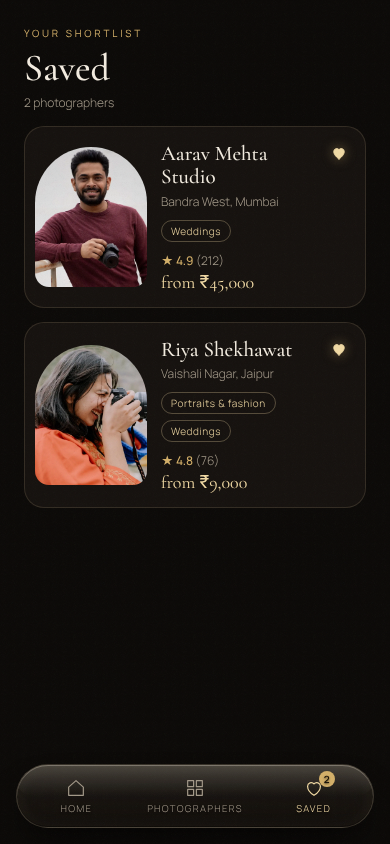
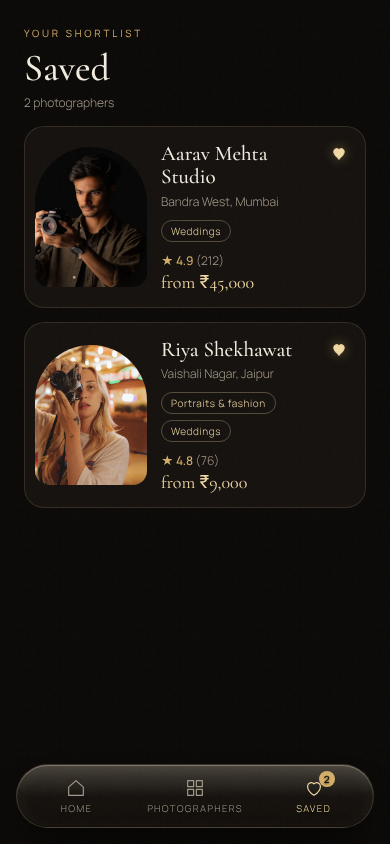
Replace lead portraits with cinematic, low-key and graded studio portraits
Claude-Session: https://claude.ai/code/session_01Rxh5ijzNSCdoqTBqvzDQCr

Changed region(s): [[0.0923, 0.4005, 0.4, 0.5853], [0.0923, 0.154, 0.4, 0.3389]]

diff --git a/src/data/seed/images.ts b/src/data/seed/images.ts
@@ -68,20 +68,20 @@ export const IMAGES: Record<string, ImageMeta> = {
   "18429385": { src: "img/p/18429385.webp", w: 933, h: 1400, box: [0.324, 0.186, 0.766, 0.451], focus: "55% 35%", alt: "Smiling Mother Holding Daughter on Birthday" },
   "36211802": { src: "img/p/36211802.webp", w: 933, h: 1400, box: [0.508, 0.228, 0.743, 0.530], focus: "63% 42%", alt: "Smiling Woman Celebrating Birthday Indoors" },
   "16632447": { src: "img/p/16632447.webp", w: 1100, h: 734, box: [0.138, 0.000, 0.749, 0.757], focus: "44% 39%", alt: "Smiling Indian Bride and Groom in Traditional Costumes" },
-  "lead-pooja-iyer": { src: "img/p/lead-pooja-iyer.webp", w: 720, h: 900, box: [0.361, 0.166, 0.639, 0.489], focus: "50% 36%", alt: "Pooja Iyer, lead photographer with a camera" },
-  "lead-neha-kapoor": { src: "img/p/lead-neha-kapoor.webp", w: 720, h: 899, box: [0.361, 0.119, 0.639, 0.521], focus: "50% 36%", alt: "Neha Kapoor, lead photographer with a camera" },
-  "lead-ira-kapoor": { src: "img/p/lead-ira-kapoor.webp", w: 720, h: 900, box: [0.361, 0.142, 0.639, 0.485], focus: "50% 35%", alt: "Ira Kapoor, lead photographer with a camera" },
+  "lead-kabir-films": { src: "img/p/lead-kabir-films.webp", w: 720, h: 900, box: [0.361, 0.127, 0.639, 0.515], focus: "50% 36%", alt: "Kabir Anand, lead photographer with a camera" },
+  "lead-meher-vikram": { src: "img/p/lead-meher-vikram.webp", w: 315, h: 394, box: [0.361, 0.12, 0.639, 0.52], focus: "50% 36%", alt: "Vikram Malik, lead photographer with a camera" },
+  "lead-joaquim-fernandes": { src: "img/p/lead-joaquim-fernandes.webp", w: 720, h: 900, box: [0.361, 0.155, 0.639, 0.497], focus: "50% 36%", alt: "Joaquim Fernandes, lead photographer with a camera" },
+  "lead-aarav-mehta": { src: "img/p/lead-aarav-mehta.webp", w: 720, h: 900, box: [0.361, 0.141, 0.639, 0.506], focus: "50% 36%", alt: "Aarav Mehta, lead photographer with a camera" },
+  "lead-ananya-rao": { src: "img/p/lead-ananya-rao.webp", w: 720, h: 900, box: [0.482, 0.125, 0.773, 0.496], focus: "63% 35%", alt: "Ananya Rao, lead photographer with a camera" },
+  "lead-rohan-kulkarni": { src: "img/p/lead-rohan-kulkarni.webp", w: 720, h: 899, box: [0.503, 0.18, 0.78, 0.48], focus: "64% 36%", alt: "Rohan Kulkarni, lead photographer with a camera" },
+  "lead-ira-kapoor": { src: "img/p/lead-ira-kapoor.webp", w: 720, h: 899, box: [0.408, 0.128, 0.686, 0.515], focus: "55% 36%", alt: "Ira Kapoor, lead photographer with a camera" },
+  "lead-aditi-verma": { src: "img/p/lead-aditi-verma.webp", w: 720, h: 900, box: [0.361, 0.146, 0.639, 0.503], focus: "50% 36%", alt: "Aditi Verma, lead photographer with a camera" },
+  "lead-tanvi-sharma": { src: "img/p/lead-tanvi-sharma.webp", w: 486, h: 607, box: [0.361, 0.132, 0.639, 0.512], focus: "50% 36%", alt: "Tanvi Sharma, lead photographer with a camera" },
+  "lead-farhan-qureshi": { src: "img/p/lead-farhan-qureshi.webp", w: 720, h: 900, box: [0.361, 0.169, 0.639, 0.525], focus: "50% 38%", alt: "Farhan Qureshi, lead photographer with a camera" },
+  "lead-siddharth-nair": { src: "img/p/lead-siddharth-nair.webp", w: 720, h: 899, box: [0.361, 0.121, 0.639, 0.52], focus: "50% 36%", alt: "Siddharth Nair, lead photographer with a camera" },
+  "lead-dev-malhotra": { src: "img/p/lead-dev-malhotra.webp", w: 720, h: 900, box: [0.361, 0.126, 0.639, 0.516], focus: "50% 36%", alt: "Dev Malhotra, lead photographer with a camera" },
+  "lead-pooja-iyer": { src: "img/p/lead-pooja-iyer.webp", w: 720, h: 900, box: [0.361, 0.132, 0.639, 0.512], focus: "50% 36%", alt: "Pooja Iyer, lead photographer with a camera" },
+  "lead-neha-kapoor": { src: "img/p/lead-neha-kapoor.webp", w: 720, h: 900, box: [0.573, 0.01, 0.879, 0.389], focus: "73% 24%", alt: "Neha Kapoor, lead photographer with a camera" },
+  "lead-riya-shekhawat": { src: "img/p/lead-riya-shekhawat.webp", w: 720, h: 900, box: [0.361, 0.1, 0.639, 0.534], focus: "50% 36%", alt: "Riya Shekhawat, lead photographer with a camera" },
   "lead-zoya-khan": { src: "img/p/lead-zoya-khan.webp", w: 720, h: 900, box: [0.361, 0.092, 0.639, 0.539], focus: "50% 36%", alt: "Zoya Khan, lead photographer with a camera" },
-  "lead-aditi-verma": { src: "img/p/lead-aditi-verma.webp", w: 720, h: 900, box: [0.361, 0.135, 0.639, 0.51], focus: "50% 36%", alt: "Aditi Verma, lead photographer with a camera" },
-  "lead-ananya-rao": { src: "img/p/lead-ananya-rao.webp", w: 720, h: 900, box: [0.3, 0.12, 0.72, 0.58], focus: "52% 38%", alt: "Ananya Rao, lead photographer with a camera" },
-  "lead-riya-shekhawat": { src: "img/p/lead-riya-shekhawat.webp", w: 720, h: 899, box: [0.3, 0.08, 0.85, 0.68], focus: "58% 42%", alt: "Riya Shekhawat, lead photographer with a camera" },
-  "lead-tanvi-sharma": { src: "img/p/lead-tanvi-sharma.webp", w: 720, h: 900, box: [0.314, 0.164, 0.605, 0.491], focus: "46% 36%", alt: "Tanvi Sharma, lead photographer with a camera" },
-  "lead-aarav-mehta": { src: "img/p/lead-aarav-mehta.webp", w: 720, h: 899, box: [0.361, 0.039, 0.639, 0.399], focus: "50% 26%", alt: "Aarav Mehta, lead photographer with a camera" },
-  "lead-kabir-films": { src: "img/p/lead-kabir-films.webp", w: 720, h: 900, box: [0.361, 0.139, 0.639, 0.507], focus: "50% 36%", alt: "Kabir Anand, lead photographer with a camera" },
-  "lead-rohan-kulkarni": { src: "img/p/lead-rohan-kulkarni.webp", w: 720, h: 900, box: [0.355, 0.102, 0.645, 0.507], focus: "50% 35%", alt: "Rohan Kulkarni, lead photographer with a camera" },
-  "lead-siddharth-nair": { src: "img/p/lead-siddharth-nair.webp", w: 720, h: 900, box: [0.324, 0.137, 0.602, 0.509], focus: "46% 36%", alt: "Siddharth Nair, lead photographer with a camera" },
-  "lead-farhan-qureshi": { src: "img/p/lead-farhan-qureshi.webp", w: 720, h: 900, box: [0.361, 0.121, 0.639, 0.5], focus: "50% 35%", alt: "Farhan Qureshi, lead photographer with a camera" },
-  "lead-dev-malhotra": { src: "img/p/lead-dev-malhotra.webp", w: 720, h: 900, box: [0.35, 0.266, 0.65, 0.591], focus: "50% 46%", alt: "Dev Malhotra, lead photographer with a camera" },
-  "lead-joaquim-fernandes": { src: "img/p/lead-joaquim-fernandes.webp", w: 720, h: 900, box: [0.361, 0.143, 0.639, 0.505], focus: "50% 36%", alt: "Joaquim Fernandes, lead photographer with a camera" },
-  "lead-meher-vikram": { src: "img/p/lead-meher-vikram.webp", w: 719, h: 900, box: [0.361, 0.15, 0.639, 0.5], focus: "50% 36%", alt: "Vikram Malik, lead photographer with a camera" },
 };

diff --git a/src/routes/Profile.svelte b/src/routes/Profile.svelte
@@ -63,7 +63,7 @@
 {:else if p}
   <div class="page" bind:this={page} onscroll={scrolled} in:pageIn|global>
     <div class="hero">
-      <div class="himg" style:transform={`translateY(${heroShift}px) scale(1.06)`}><Img id={p.leadImage} ratio={390 / 340} ty={0.4} eager /></div>
+      <div class="himg" style:transform={`translateY(${heroShift}px) scale(1.06)`}><Img id={p.leadImage} ratio={390 / 340} ty={0.48} eager /></div>
       <div class="shade"></div>
     </div>
     <div class="nav">

diff --git a/public/img/CREDITS.md b/public/img/CREDITS.md
@@ -79,19 +79,19 @@ Cropped to 4:5 from the Pexels originals (`https://www.pexels.com/photo/<id>/`),
 
 | File | Pexels photo |
 |---|---|
-| p/lead-pooja-iyer.webp | https://www.pexels.com/photo/15638345/ |
-| p/lead-neha-kapoor.webp | https://www.pexels.com/photo/16082969/ |
-| p/lead-ira-kapoor.webp | https://www.pexels.com/photo/19877825/ |
+| p/lead-kabir-films.webp | https://www.pexels.com/photo/11478423/ |
+| p/lead-meher-vikram.webp | https://www.pexels.com/photo/5594185/ |
+| p/lead-joaquim-fernandes.webp | https://www.pexels.com/photo/15669231/ |
+| p/lead-aarav-mehta.webp | https://www.pexels.com/photo/16597255/ |
+| p/lead-ananya-rao.webp | https://www.pexels.com/photo/12678150/ |
+| p/lead-rohan-kulkarni.webp | https://www.pexels.com/photo/27532972/ |
+| p/lead-ira-kapoor.webp | https://www.pexels.com/photo/36580588/ |
+| p/lead-aditi-verma.webp | https://www.pexels.com/photo/19826587/ |
+| p/lead-tanvi-sharma.webp | https://www.pexels.com/photo/9839519/ |
+| p/lead-farhan-qureshi.webp | https://www.pexels.com/photo/2799785/ |
+| p/lead-siddharth-nair.webp | https://www.pexels.com/photo/7618388/ |
+| p/lead-dev-malhotra.webp | https://www.pexels.com/photo/20240833/ |
+| p/lead-pooja-iyer.webp | https://www.pexels.com/photo/32169472/ |
+| p/lead-neha-kapoor.webp | https://www.pexels.com/photo/5418316/ |
+| p/lead-riya-shekhawat.webp | https://www.pexels.com/photo/8975673/ |
 | p/lead-zoya-khan.webp | https://www.pexels.com/photo/18529574/ |
-| p/lead-aditi-verma.webp | https://www.pexels.com/photo/28926424/ |
-| p/lead-ananya-rao.webp | https://www.pexels.com/photo/30902376/ |
-| p/lead-riya-shekhawat.webp | https://www.pexels.com/photo/37879981/ |
-| p/lead-tanvi-sharma.webp | https://www.pexels.com/photo/36870279/ |
-| p/lead-aarav-mehta.webp | https://www.pexels.com/photo/5528969/ |
-| p/lead-kabir-films.webp | https://www.pexels.com/photo/15594934/ |
-| p/lead-rohan-kulkarni.webp | https://www.pexels.com/photo/16597257/ |
-| p/lead-siddharth-nair.webp | https://www.pexels.com/photo/9727189/ |
-| p/lead-farhan-qureshi.webp | https://www.pexels.com/photo/9712807/ |
-| p/lead-dev-malhotra.webp | https://www.pexels.com/photo/15891673/ |
-| p/lead-joaquim-fernandes.webp | https://www.pexels.com/photo/14135298/ |
-| p/lead-meher-vikram.webp | https://www.pexels.com/photo/20777265/ |
